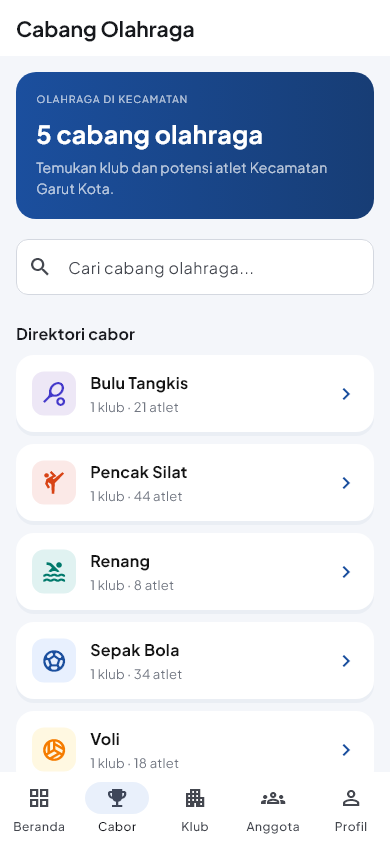
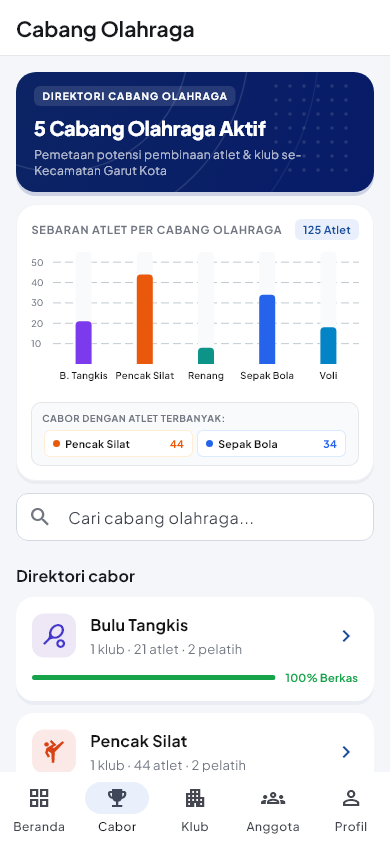
feat(app): integrasikan rute SportDetailPage, perbarui tes integrasi dan golden preview cabor

diff --git a/test/app_test.dart b/test/app_test.dart
@@ -13,6 +13,7 @@ import 'package:kok_app/features/dashboard_decorations.dart';
 import 'package:kok_app/features/home_page.dart';
 import 'package:kok_app/features/search/global_search_page.dart';
 import 'package:kok_app/features/athlete_detail/athlete_detail_page.dart';
+import 'package:kok_app/features/sport_detail/sport_detail_page.dart';
 
 Future<ProviderContainer> start(
   WidgetTester tester, {
@@ -268,16 +269,24 @@ void main() {
     expect(find.text('Cabang Olahraga'), findsOneWidget);
     await tester.tap(find.text('Bulu Tangkis'));
     await tester.pumpAndSettle();
-    expect(find.byType(ClubsPage), findsOneWidget);
-    expect(find.byIcon(Icons.chevron_left), findsOneWidget);
-    await tester.tap(find.text('PB Citra Garut'));
+    expect(find.byType(SportDetailPage), findsOneWidget);
+    expect(find.text('Bulu Tangkis'), findsWidgets);
+    expect(find.text('Berkas Lengkap'), findsOneWidget);
+    expect(find.byType(TabBar), findsOneWidget);
+    await tester.tap(find.widgetWithText(Tab, 'Atlet'));
     await tester.pumpAndSettle();
-    expect(find.text('PB Citra Garut'), findsOneWidget);
-    await tester.tap(find.text('Atlet 1 · PB Citra Garut'));
+    await tester.tap(find.textContaining('Atlet 1').first);
     await tester.pumpAndSettle();
+    expect(find.byType(AthleteDetailPage), findsOneWidget);
     expect(find.text('Detail Atlet'), findsOneWidget);
     expect(find.text('KELENGKAPAN BERKAS'), findsOneWidget);
     expect(find.text('Hubungi pengurus klub'), findsOneWidget);
+    await tester.tap(find.byIcon(Icons.chevron_left));
+    await tester.pumpAndSettle();
+    expect(find.byType(SportDetailPage), findsOneWidget);
+    await tester.tap(find.byIcon(Icons.chevron_left));
+    await tester.pumpAndSettle();
+    expect(find.text('Cabang Olahraga'), findsOneWidget);
     container.read(routerProvider).go('/committee');
     await tester.pumpAndSettle();
     expect(find.textContaining('Anggota KOK'), findsOneWidget);

diff --git a/lib/app.dart b/lib/app.dart
@@ -12,6 +12,7 @@ import 'features/profile_page.dart';
 import 'features/detail_pages.dart';
 import 'features/club_detail/club_detail_page.dart';
 import 'features/athlete_detail/athlete_detail_page.dart';
+import 'features/sport_detail/sport_detail_page.dart';
 import 'features/attention_page.dart';
 import 'features/search/global_search_page.dart';
 
@@ -65,7 +66,7 @@ final routerProvider = Provider<GoRouter>((ref) {
       ),
       GoRoute(
         path: '/sport/:name',
-        builder: (_, s) => ClubsPage(sport: s.pathParameters['name']!),
+        builder: (_, s) => SportDetailPage(sport: s.pathParameters['name']!),
       ),
       GoRoute(
         path: '/club/:id',

diff --git a/test/preview_test.dart b/test/preview_test.dart
@@ -48,7 +48,7 @@ void main() {
         'detail-klub-pb': '/club/pb',
         'detail-klub-voli': '/club/voli',
         'detail-atlet': '/person/voli-atlet-0',
-        'detail-cabor': '/sport/Bulu%20Tangkis',
+        'detail-cabor': '/sport/Sepak%20Bola',
         'perlu-perhatian': '/attention',
         'pencarian': '/search',
       }.entries) {
